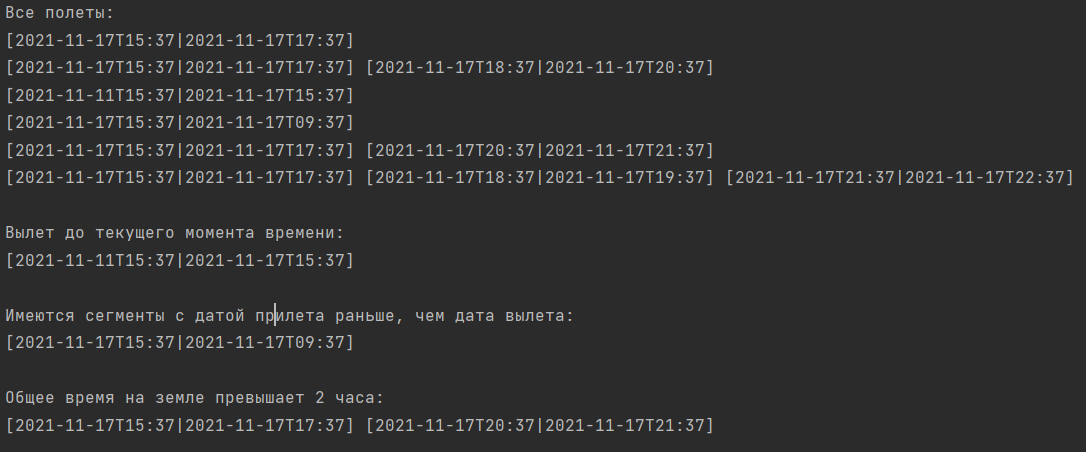
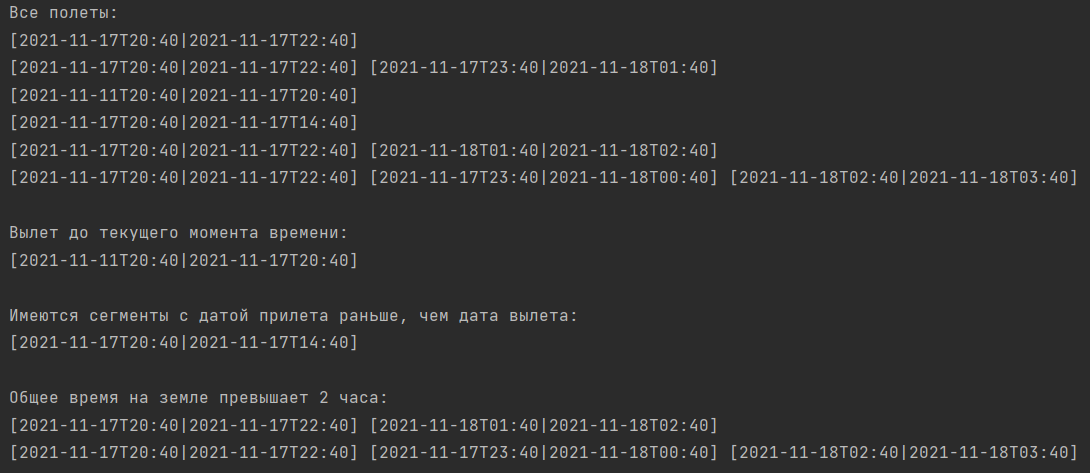
fix bug

diff --git a/src/main/java/com/gridnine/testing/FilterImpl.java b/src/main/java/com/gridnine/testing/FilterImpl.java
@@ -1,6 +1,7 @@
 package com.gridnine.testing;
 
 import java.time.LocalDateTime;
+import java.time.temporal.ChronoUnit;
 import java.util.ArrayList;
 import java.util.List;
 
@@ -27,14 +28,16 @@ public class FilterImpl implements Filter {
     @Override
     public List<Flight> filterByTimeSpendOnGroundExceedsTwoHours(List<Flight> flights) {
         List<Flight> filteredFlights = new ArrayList<>();
+
         for (Flight f : flights) {
+            long countMinutes = 0;
             for (int i = 0; i < f.getSegments().size() - 1; i++) {
                 LocalDateTime segment1 = f.getSegments().get(i).getArrivalDate();
                 LocalDateTime segment2 = f.getSegments().get(i + 1).getDepartureDate();
-                if (segment2.isAfter(segment1.plusHours(2))) {
-                    filteredFlights.add(f);
-                    break;
-                }
+                countMinutes += ChronoUnit.MINUTES.between(segment1, segment2);
+            }
+            if (countMinutes > 120) {
+                filteredFlights.add(f);
             }
         }
         return filteredFlights;
